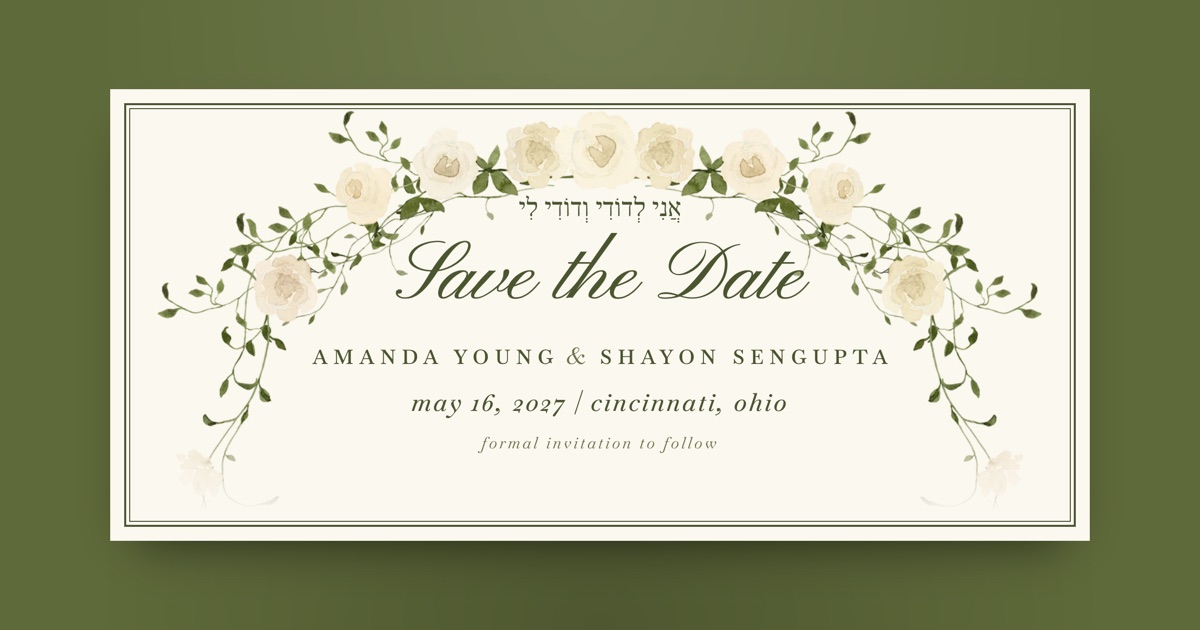
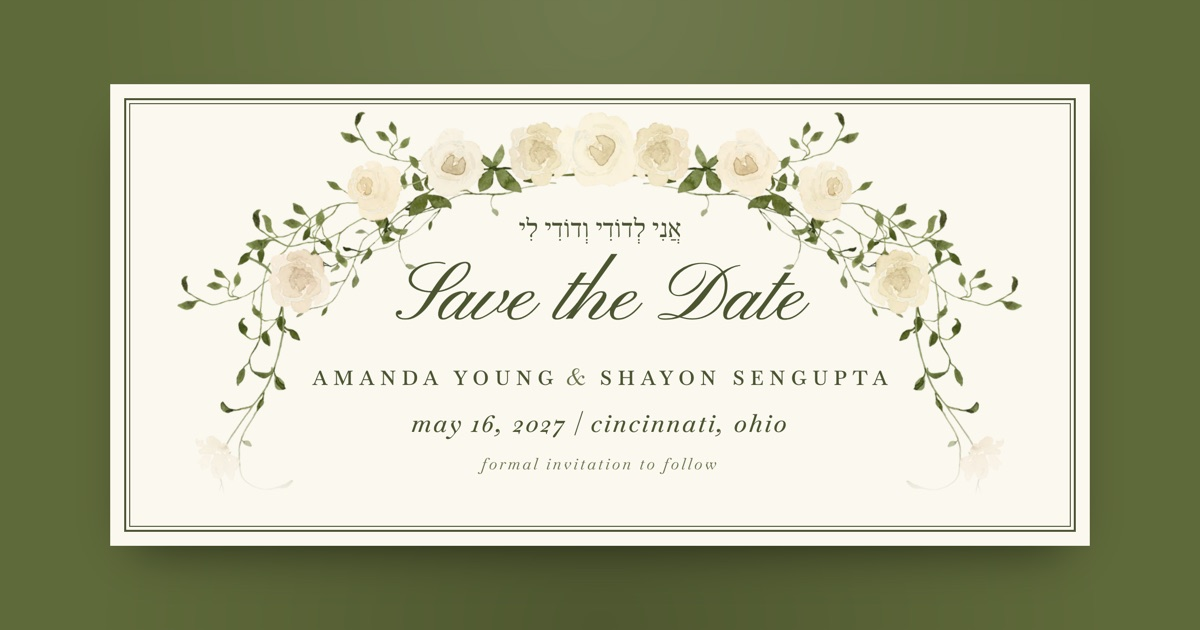
Rose arch clear of the frame; rose cluster above the monogram
- Inset the arch so no rose or vine touches the double rule
- Add a small cluster of the same ivory roses above the monogram (option A)
- Re-render share images

Changed region(s): [[0.0925, 0.1206, 0.925, 0.754], [0.0925, 0.8143, 0.925, 0.8746]]

diff --git a/index.html b/index.html
@@ -16,19 +16,19 @@
 <meta property="og:type" content="website" />
 <meta property="og:url" content="https://shayon297.github.io/save-the-date/" />
 <meta property="og:site_name" content="Amanda &amp; Shayon" />
-<meta property="og:image" content="https://shayon297.github.io/save-the-date/assets/og.jpg?v=23" />
+<meta property="og:image" content="https://shayon297.github.io/save-the-date/assets/og.jpg?v=24" />
 <meta property="og:image:width" content="1200" />
 <meta property="og:image:height" content="630" />
 <meta property="og:image:alt" content="Save the Date — Amanda Young and Shayon Sengupta, May 16, 2027, Cincinnati, Ohio. Formal invitation to follow." />
 <meta name="twitter:card" content="summary_large_image" />
 <meta name="twitter:title" content="Save the Date — Amanda &amp; Shayon" />
 <meta name="twitter:description" content="Sunday, May 16, 2027 · Cincinnati Art Museum · Cincinnati, Ohio" />
-<meta name="twitter:image" content="https://shayon297.github.io/save-the-date/assets/og.jpg?v=23" />
+<meta name="twitter:image" content="https://shayon297.github.io/save-the-date/assets/og.jpg?v=24" />
 
 <link rel="preconnect" href="https://fonts.googleapis.com">
 <link rel="preconnect" href="https://fonts.gstatic.com" crossorigin>
 <link href="https://fonts.googleapis.com/css2?family=Baskervville:ital,wght@0,400;0,500;0,600;0,700;1,400;1,500&family=Frank+Ruhl+Libre:wght@400;500&family=Pinyon+Script&display=swap" rel="stylesheet">
-<link rel="stylesheet" href="styles.css?v=60" />
+<link rel="stylesheet" href="styles.css?v=63" />
 <script>
   // ?preview=email / ?preview=og switch the page into fixed layouts used to render the share images
   var pv = new URLSearchParams(location.search).get("preview");
@@ -168,6 +168,7 @@
       </section>
 
       <footer class="card-footer">
+        <img class="footer-roses" src="assets/rose-sprig.webp?v=1" alt="" aria-hidden="true" width="531" height="210">
         <span class="footer-mark" role="img" aria-label="A &amp; S"><span>A</span><span>S</span></span>
       </footer>
 

diff --git a/styles.css b/styles.css
@@ -145,10 +145,10 @@ body{
    ivory to suit the olive palette. It scales with the card's width. */
 .rose-arch{
   position: absolute;
-  top: calc(var(--hang) - 2px);
+  top: calc(var(--hang) + 14px);          /* clear of the inner rule */
   left: 50%;
   transform: translateX(-50%);
-  width: calc(100% - 2 * var(--hang) - 8px);
+  width: calc(100% - 2 * var(--hang) - 40px);   /* vine tips stay inside the frame */
   height: auto;
   z-index: 0;
   pointer-events: none;
@@ -437,8 +437,8 @@ body{
 .preview-og .page{ min-height: 100vh; padding: 0; align-items: center; }
 .preview-og .card{ max-width: 980px; box-shadow: 0 24px 50px -24px rgba(0,0,0,0.6); }
 .preview-og .card-inner > :not(.hero){ display: none; }
-.preview-og .card-inner{ padding: 70px 150px 56px; }
-.preview-og .rose-arch{ width: 900px; -webkit-mask-image: linear-gradient(#000 44%, transparent 57%); mask-image: linear-gradient(#000 44%, transparent 57%); }
+.preview-og .card-inner{ padding: 96px 150px 40px; }
+.preview-og .rose-arch{ top: calc(var(--hang) + 4px); width: 860px; -webkit-mask-image: linear-gradient(#000 44%, transparent 57%); mask-image: linear-gradient(#000 44%, transparent 57%); }
 .preview-og .script-title{ font-size: 84px; margin-bottom: 14px; }
 .preview-og .names-caps{ font-size: 20px; margin-bottom: 14px; white-space: nowrap; }
 .preview-og .names-caps .name{ display: inline; }
@@ -498,6 +498,8 @@ body{
   letter-spacing: 0;
   color: var(--ink);
 }
+/* a small cluster of the same ivory roses above the monogram, to balance the arch */
+.footer-roses{ display: block; width: 230px; max-width: 60%; height: auto; margin: 0 auto 6px; }
 .footer-mark::after{          /* inner rule */
   content: "";
   position: absolute;

diff --git a/email.html b/email.html
@@ -22,7 +22,7 @@
         <tr>
           <td align="center" style="padding:0;">
             <a href="https://shayon297.github.io/save-the-date/" style="text-decoration:none;">
-              <img src="https://shayon297.github.io/save-the-date/assets/card-email.jpg?v=25" width="600" alt="Save the Date — Shayon Sengupta and Amanda Young, Sunday, May 16, 2027, Cincinnati Art Museum" style="display:block;width:100%;max-width:600px;height:auto;border:0;box-shadow:0 18px 40px -22px rgba(0,0,0,0.45);" />
+              <img src="https://shayon297.github.io/save-the-date/assets/card-email.jpg?v=26" width="600" alt="Save the Date — Shayon Sengupta and Amanda Young, Sunday, May 16, 2027, Cincinnati Art Museum" style="display:block;width:100%;max-width:600px;height:auto;border:0;box-shadow:0 18px 40px -22px rgba(0,0,0,0.45);" />
             </a>
           </td>
         </tr>

diff --git a/CLAUDE.md b/CLAUDE.md
@@ -16,6 +16,7 @@ Sunday, May 16, 2027 at the Cincinnati Art Museum.
 | `assets/welcome-party.ics`, `assets/wedding.ics` | Calendar files for Apple / Outlook. Keep in sync with `EVENTS` in `script.js` |
 | `tools-rose-arch.py` | Recolours the stock watercolour rose arch (pink → varied ivory) into `assets/rose-arch.webp` |
 | `tools-flora.py` | Old line-art drape generator; no longer used on the page (kept for reference) |
+| `assets/rose-sprig.webp` | Small rose cluster cut from the arch, above the monogram |
 | `assets/rose-arch.webp` | The draping arch of ivory roses over the header (the chuppah). Stock watercolour art Amanda supplied, recoloured; confirm its licence covers this use |
 | `assets/engagement.jpg` | Engagement photo in the arched frame under the header (the figure hides itself if the file is missing) |
 | `assets/favicon-32.png`, `assets/favicon-64.png`, `assets/apple-touch-icon.png` | Browser tab and home-screen icons: the A S oval monogram. Rendered from `.ba/icon.html`-style markup (not in the repo); re-render if the monogram changes |
@@ -96,7 +97,8 @@ and a phone width (375px) before calling a change done.
 - Chuppah: a draping watercolour arch of ivory roses with trailing vines over the
   header (assets/rose-arch.webp), each rose a slightly different cream. It replaced the
   full-length line-art drapes, which reviewers found busy and too much like curtains.
-  The rest of the card is plain inside the double-rule frame.
+  It sits inset from the frame so no rose or vine touches the rules. A small cluster
+  of the same roses (assets/rose-sprig.webp) sits above the monogram to balance it.
 - The monogram is museo's own: A over S in Baskervville capitals inside a double-ruled
   oval (rings in the lighter olive, letters in ink) (as on museo's enclosure cards and belly band). Script monograms were tried and
   rejected (Pinyon's S reads as an L).
